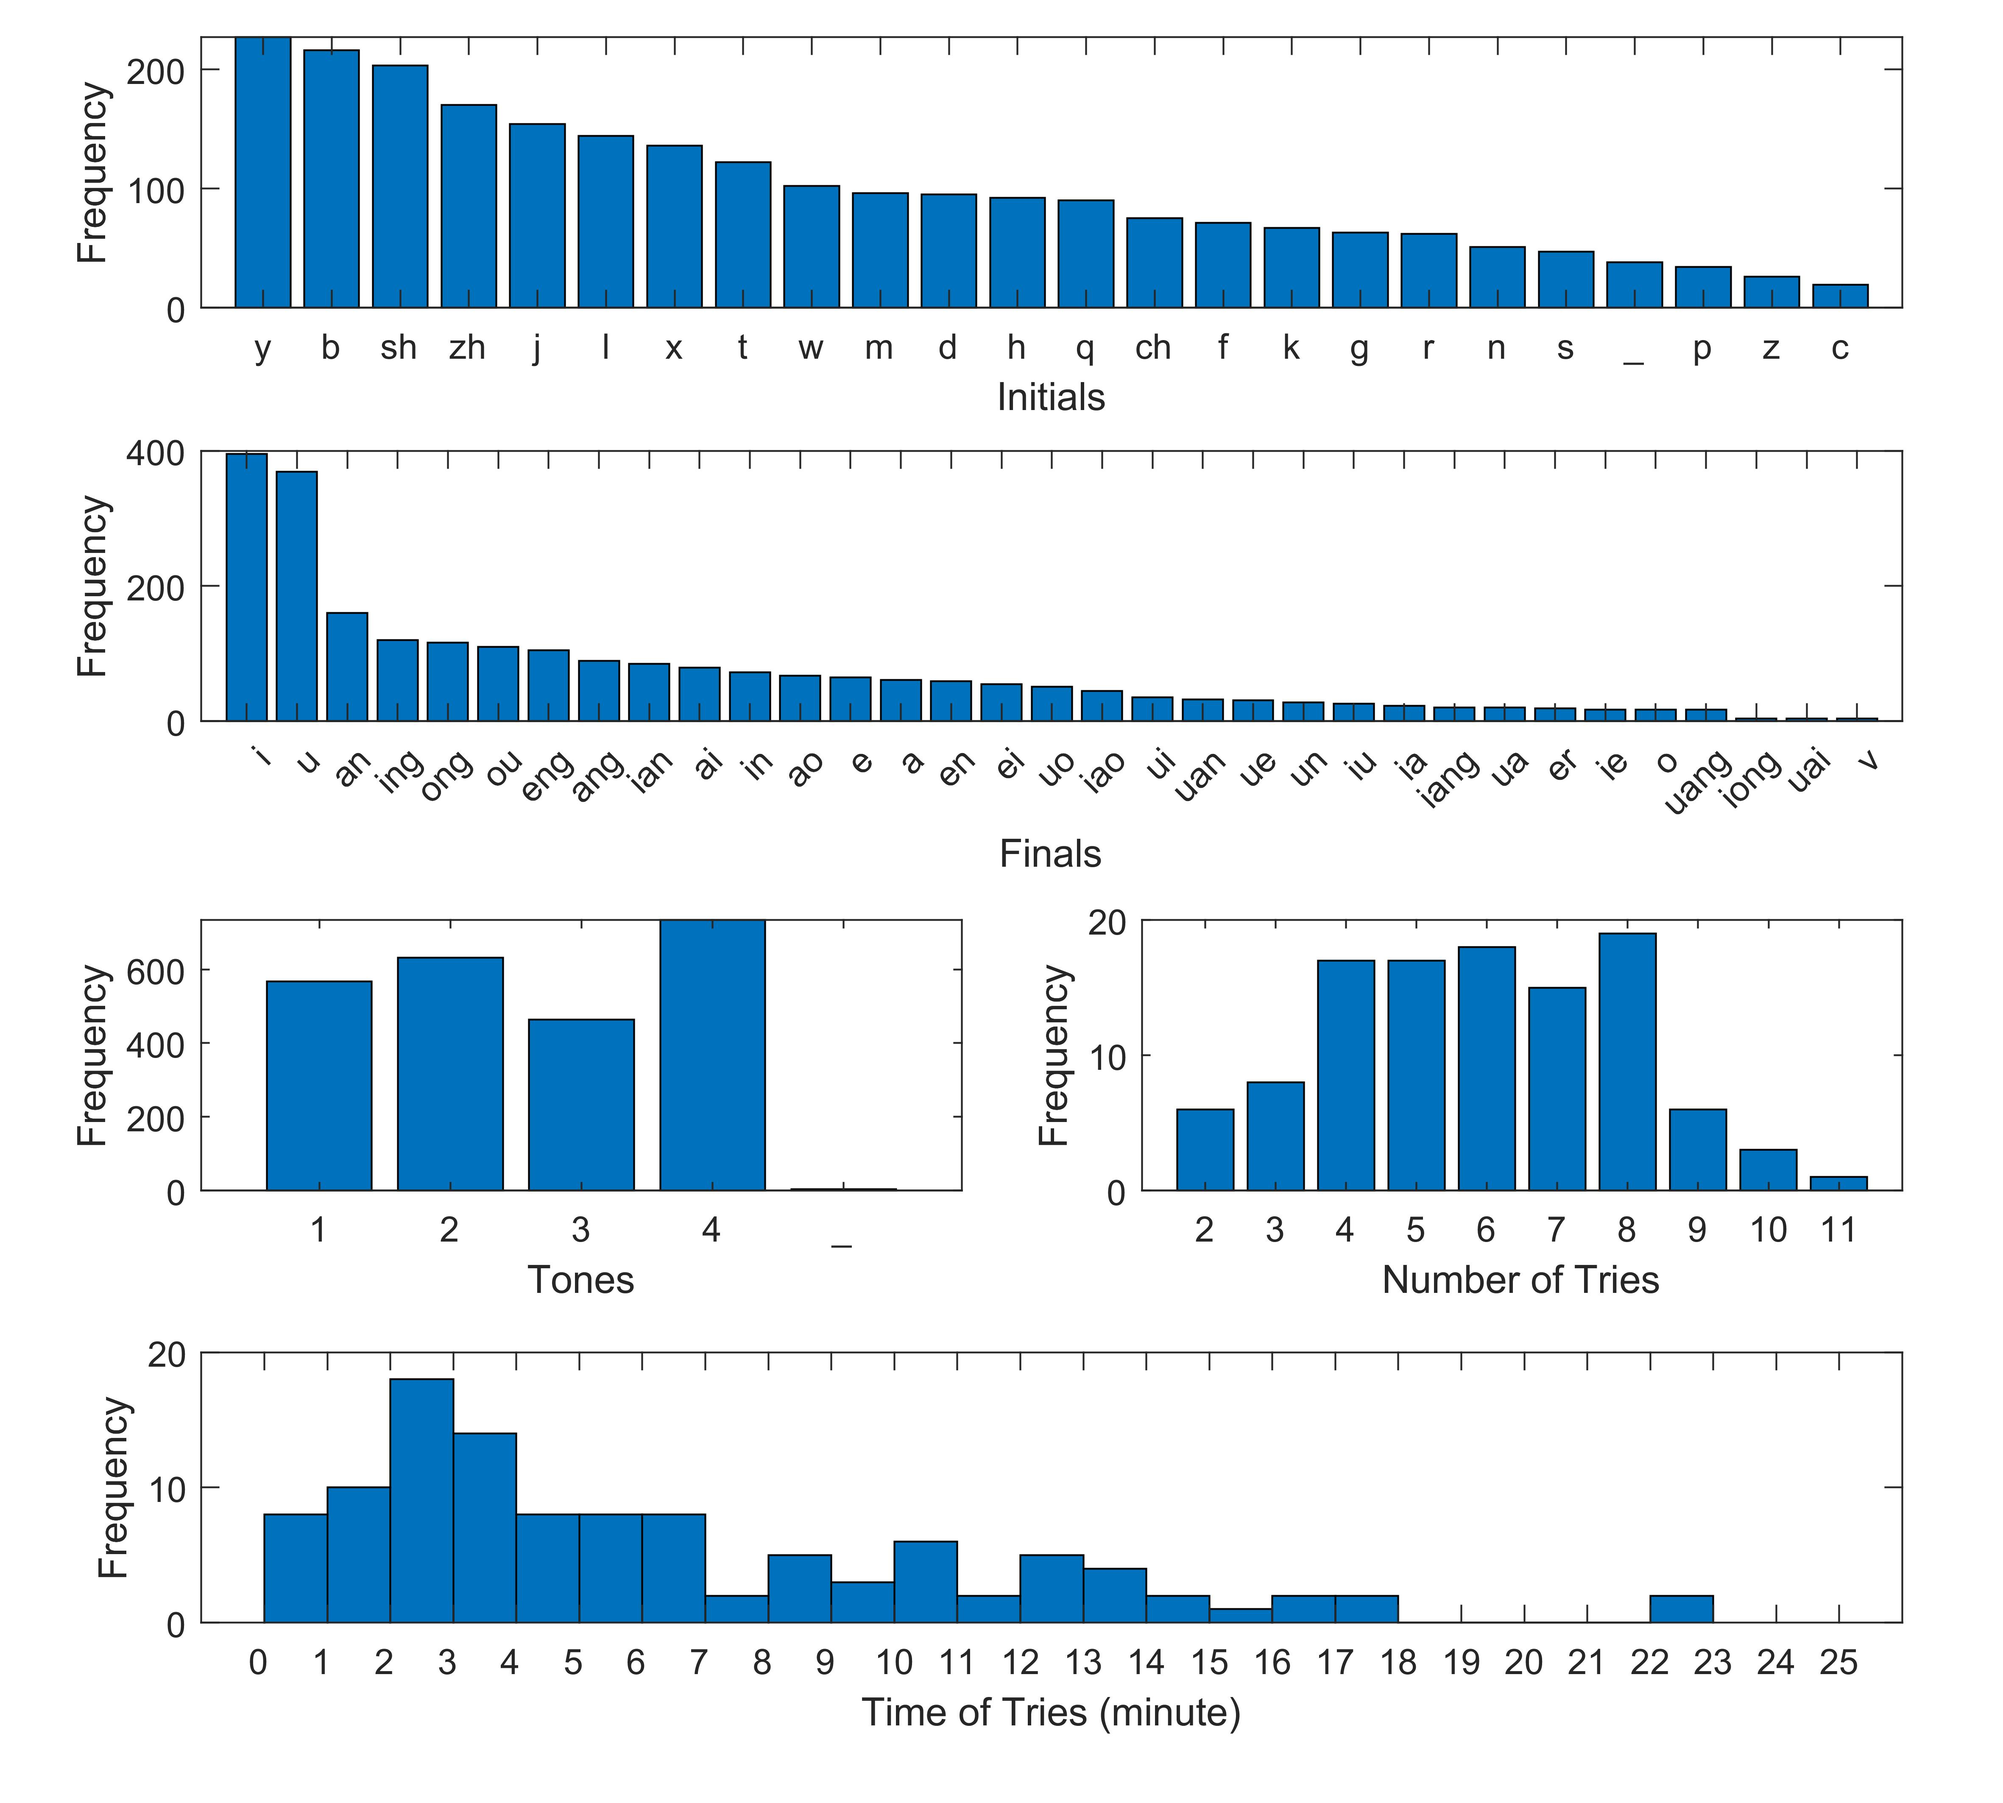
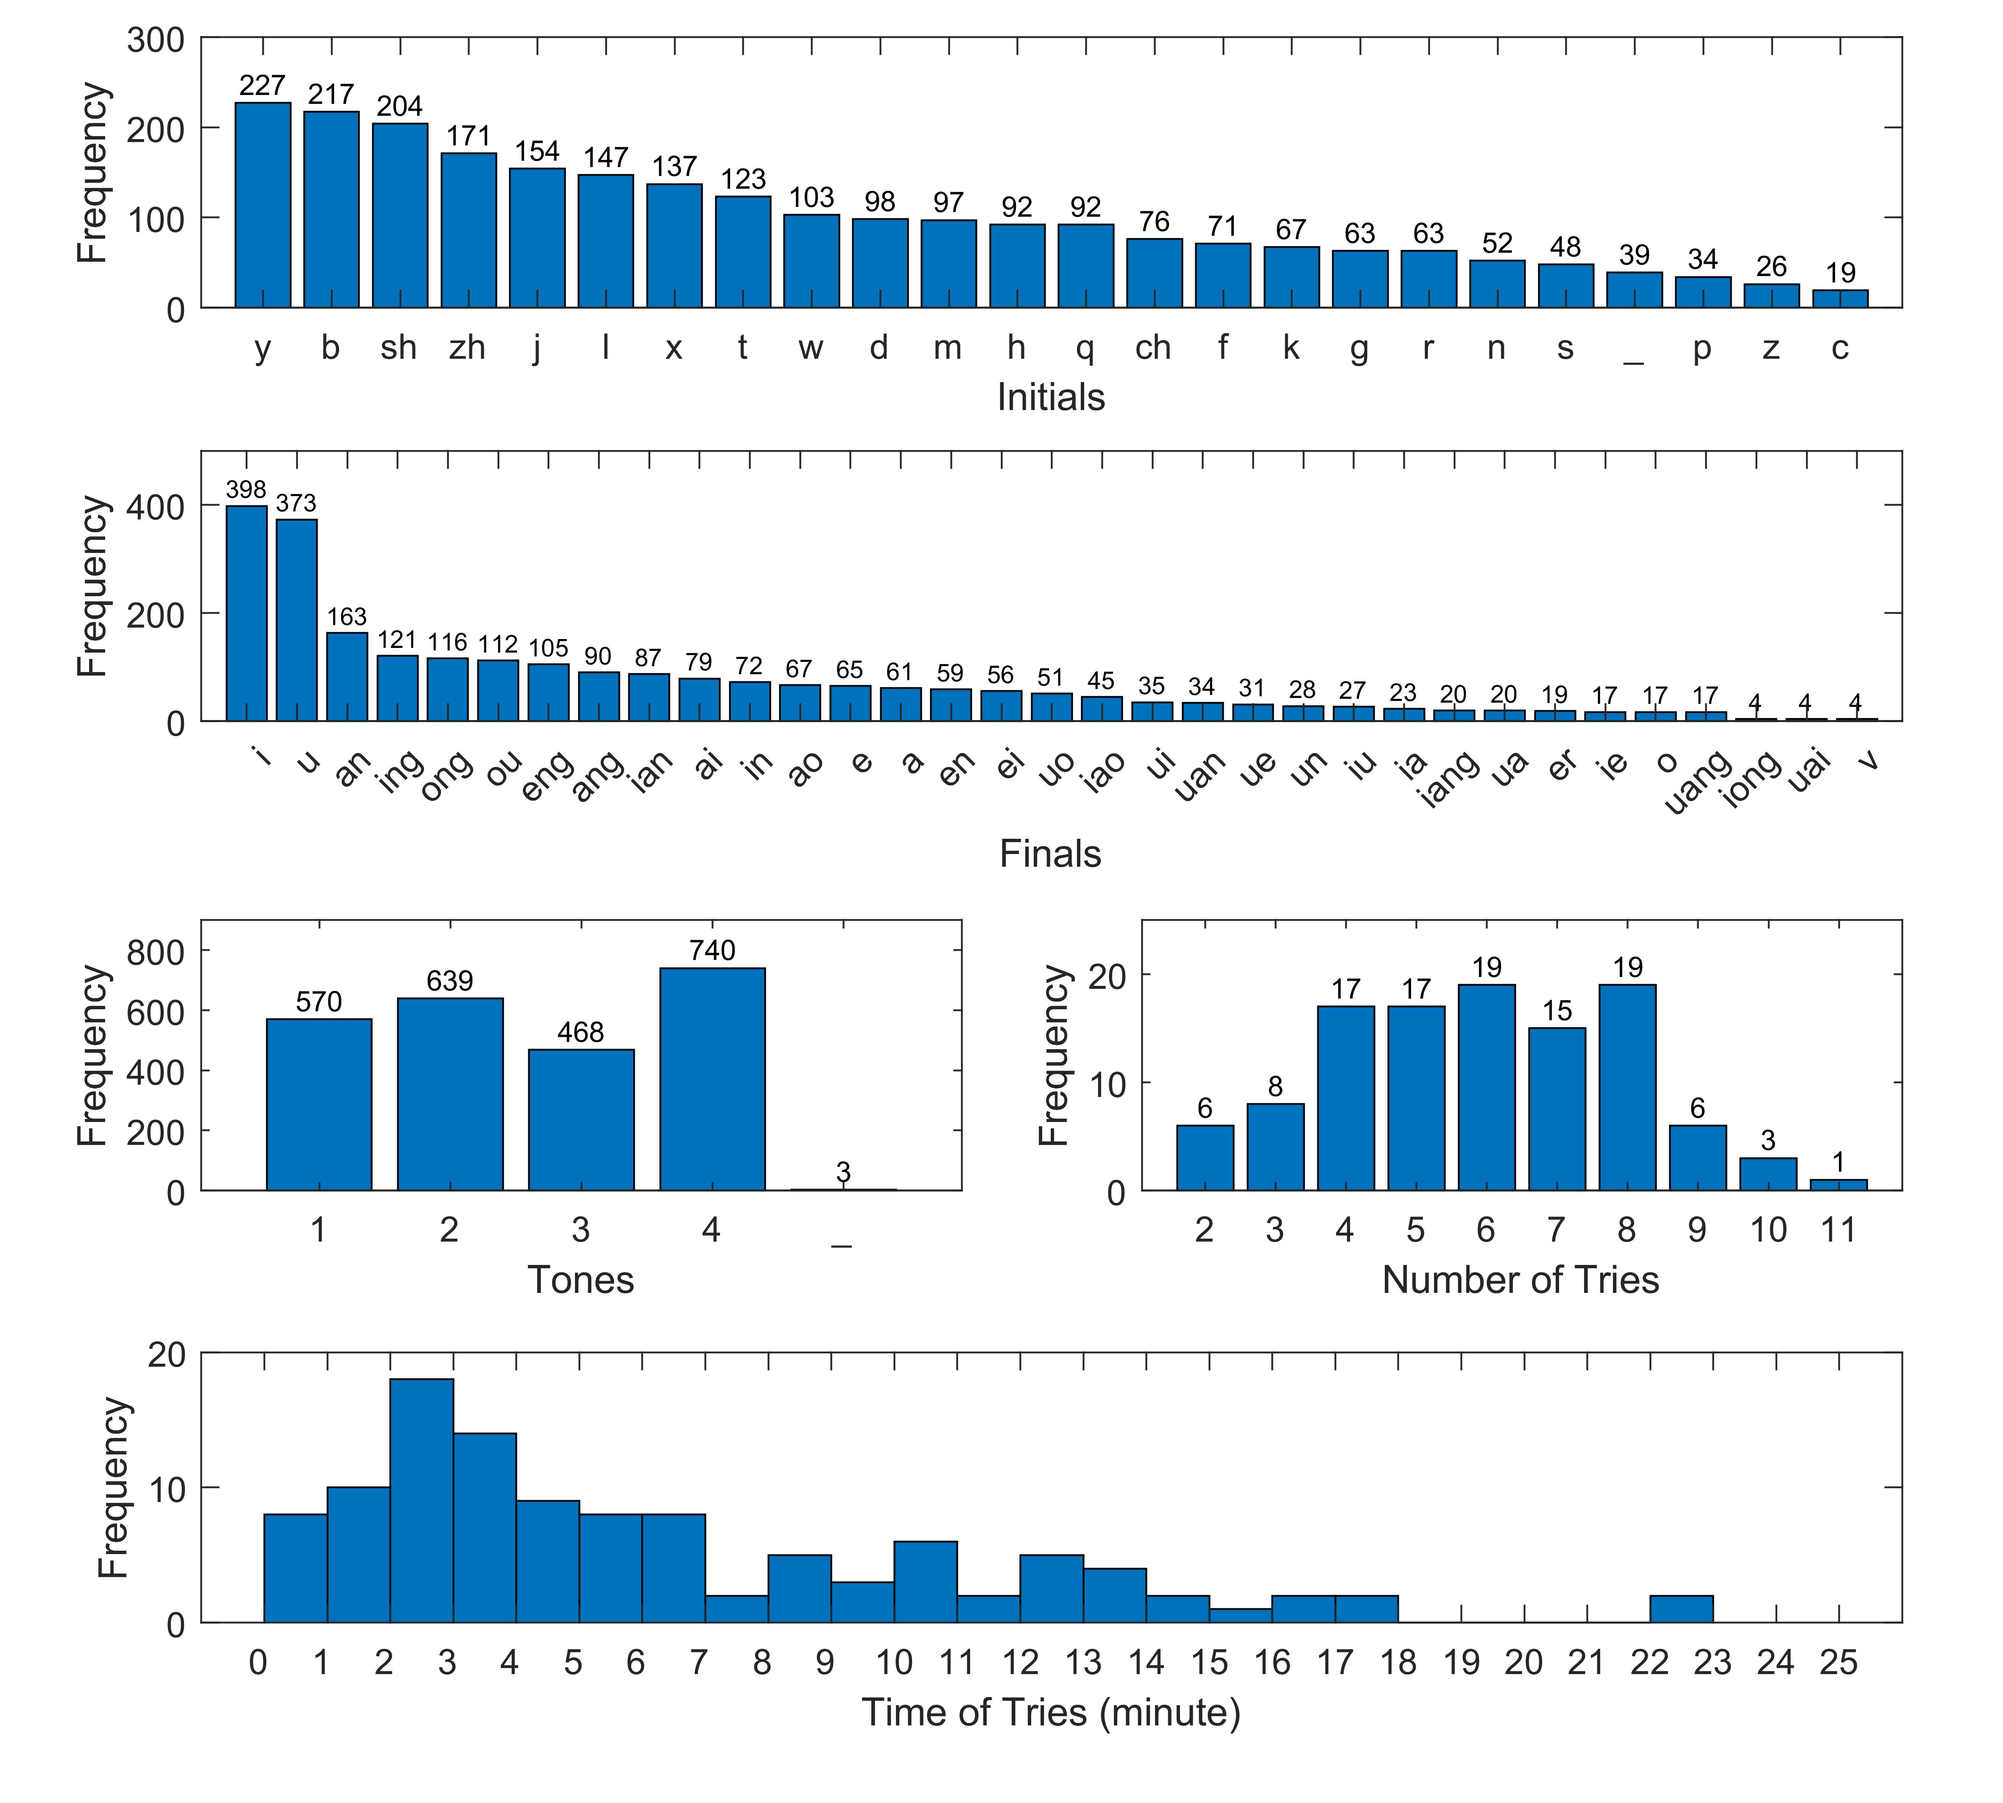
给bar图添加数据标签

diff --git a/plot_data.m b/plot_data.m
@@ -13,31 +13,51 @@ fig = figure;
 adjust_fig(fig);
 
 ax_initials = axes('Position', [0.1, 0.83, 0.85, 0.15]);
-bar(ax_initials, ...
+b_initials = bar(ax_initials, ...
     reordercats(categorical(initials.initials), initials.initials), ...
     initials.counts);
+text(b_initials.XEndPoints, b_initials.YEndPoints, string(b_initials.YData), ...
+    'FontSize', 8, ...
+    'HorizontalAlignment', 'center', ...
+    'VerticalAlignment', 'bottom');
 adjust_ax(ax_initials, "Initials", "Frequency")
+ax_initials.YLim = [0, 300];
 
 ax_finals = axes('Position', [0.1, 0.6, 0.85, 0.15]);
-bar(ax_finals, ...
+b_finals = bar(ax_finals, ...
     reordercats(categorical(finals.finals), finals.finals), ...
     finals.counts);
+text(b_finals.XEndPoints, b_finals.YEndPoints, string(b_finals.YData), ...
+    'FontSize', 7, ...
+    'HorizontalAlignment', 'center', ...
+    'VerticalAlignment', 'bottom');
 adjust_ax(ax_finals, "Finals", "Frequency")
+ax_finals.YLim = [0, 500];
 
 ax_tones = axes('Position', [0.1, 0.34, 0.38, 0.15]);
-bar(ax_tones, ...
+b_tones = bar(ax_tones, ...
     reordercats(categorical(tones.tones), {'1', '2', '3', '4', '_'}), ...
     tones.counts);
+text(b_tones.XEndPoints, b_tones.YEndPoints, string(b_tones.YData), ...
+    'FontSize', 8, ...
+    'HorizontalAlignment', 'center', ...
+    'VerticalAlignment', 'bottom');
 adjust_ax(ax_tones, "Tones", "Frequency")
+ax_tones.YLim = [0, 900];
 
 ax_num_of_tries = axes('Position', [0.57, 0.34, 0.38, 0.15]);
-bar(ax_num_of_tries, ...
+b_num_of_tries = bar(ax_num_of_tries, ...
     reordercats( ...
     categorical(num_of_tries.num_of_tries), ...
     {'2', '3', '4', '5', '6', '7', '8', '9', '10', '11'} ...
     ), ...
     num_of_tries.counts);
+text(b_num_of_tries.XEndPoints, b_num_of_tries.YEndPoints, string(b_num_of_tries.YData), ...
+    'FontSize', 8, ...
+    'HorizontalAlignment', 'center', ...
+    'VerticalAlignment', 'bottom');
 adjust_ax(ax_num_of_tries, "Number of Tries", "Frequency")
+ax_num_of_tries.YLim = [0, 25];
 
 ax_time_of_tries = axes('Position', [0.1, 0.1, 0.85, 0.15]);
 h = histogram(time_of_tries);
